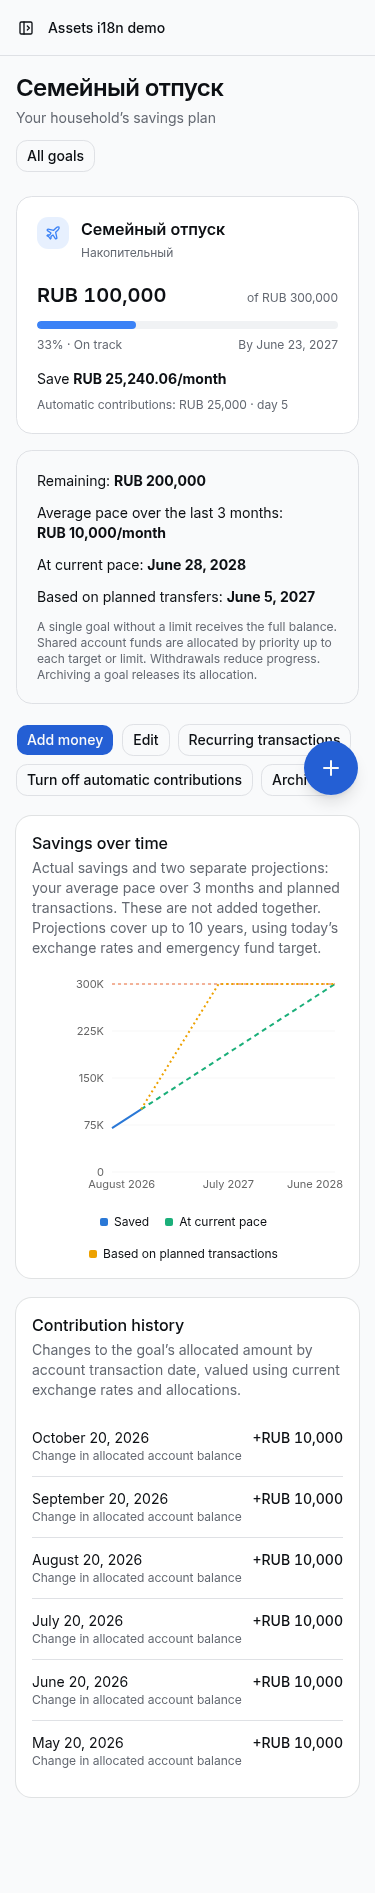
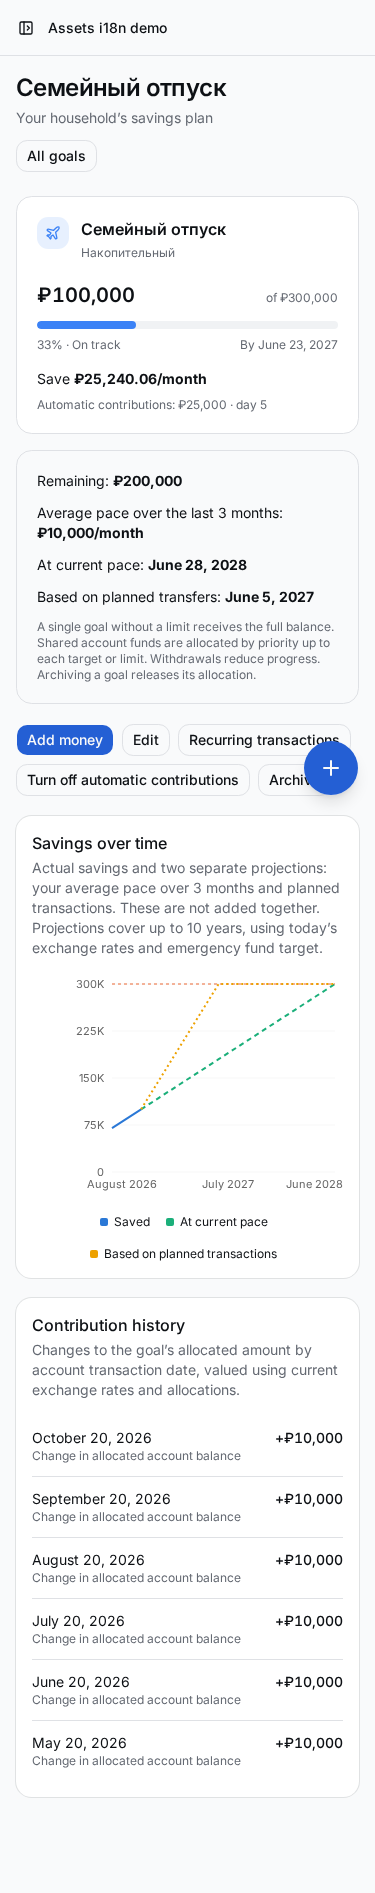
fix(i18n): use narrow currency symbols across locales

diff --git a/src/lib/money.test.ts b/src/lib/money.test.ts
@@ -1,5 +1,6 @@
 import { describe, expect, it } from "vitest"
-import { formatMoney, formatMoneyShort, minorToInput, parseMoney } from "./money"
+import { formatMoney, formatMoneyCompact, formatMoneyShort, minorToInput, parseMoney } from "./money"
+import { currencySymbol } from "./currencies"
 import { addMonths, todayIn } from "./dates"
 
 describe("parseMoney", () => {
@@ -68,5 +69,38 @@ describe("currency exponents", () => {
     expect(formatMoney(123456, "USD")).toContain("234,56")
     expect(parseMoney("1,234", "BHD")).toBe(1234)
     expect(minorToInput(1234, "BHD")).toBe("1,234")
+  })
+})
+
+describe("narrow currency symbols", () => {
+  const plain = (value: string) => value.replace(/\s/g, " ")
+
+  it.each([
+    ["RUB", 471_182_774, "4 711 827,74 ₽", "₽4,711,827.74", "₽"],
+    ["USD", 10_001, "100,01 $", "$100.01", "$"],
+    ["EUR", 5_001, "50,01 €", "€50.01", "€"],
+    ["JPY", 100, "100 ¥", "¥100", "¥"],
+    ["CNY", 10_001, "100,01 ¥", "¥100.01", "¥"],
+  ] as const)("formats %s amounts and input suffixes in both locales", (currency, minor, ru, en, symbol) => {
+    expect(plain(formatMoney(minor, currency, { locale: "ru" }))).toBe(ru)
+    expect(plain(formatMoney(minor, currency, { locale: "en" }))).toBe(en)
+    expect(currencySymbol(currency, "ru")).toBe(symbol)
+    expect(currencySymbol(currency, "en")).toBe(symbol)
+  })
+
+  it("keeps whole-amount precision and signs unchanged", () => {
+    expect(plain(formatMoney(10_000, "USD", { locale: "ru" }))).toBe("100 $")
+    expect(formatMoney(10_000, "USD", { locale: "en" })).toBe("$100")
+    expect(formatMoney(5_000, "EUR", { locale: "en" })).toBe("€50")
+    expect(formatMoney(-471_182_774, "RUB", { locale: "en" })).toBe("−₽4,711,827.74")
+    expect(formatMoney(471_182_774, "RUB", { locale: "en", sign: true })).toBe("+₽4,711,827.74")
+  })
+
+  it("preserves number-only chart and calendar abbreviations", () => {
+    expect(formatMoneyCompact(600_000_000, "RUB", "en")).toBe("6M")
+    expect(formatMoneyCompact(450_000_000, "RUB", "en")).toBe("4.5M")
+    expect(plain(formatMoneyCompact(450_000_000, "RUB", "ru"))).toBe("4,5 млн")
+    expect(formatMoneyShort(1_250_000, "USD", "en")).toBe("12.5K")
+    expect(formatMoneyShort(1_250_000, "USD", "ru")).toBe("12,5к")
   })
 })

diff --git a/e2e/assets-i18n.spec.ts b/e2e/assets-i18n.spec.ts
@@ -148,9 +148,11 @@ test("assets and import: seed demo in ru/en, both themes and widths, English act
     await page.goto("/accounts")
     await page.getByRole("button", { name: "Account", exact: true }).click()
     await page.getByLabel("Name", { exact: true }).fill("Travel card")
-    await page.getByLabel("Opening balance", { exact: true }).fill("1234.56")
+    const opening = page.getByLabel("Opening balance", { exact: true })
+    await opening.fill("1234.56")
+    await expect(opening.locator("..")).toContainText("₽")
     await page.getByRole("button", { name: "Save", exact: true }).click()
-    await expect(page.getByRole("listitem").filter({ hasText: "Travel card" })).toContainText("RUB 1,234.56")
+    await expect(page.getByRole("listitem").filter({ hasText: "Travel card" })).toContainText("₽1,234.56")
 
     await page.goto(`/goals/${goal.id}`)
     await page.getByRole("button", { name: "Add money", exact: true }).click()

diff --git a/src/lib/currencies.ts b/src/lib/currencies.ts
@@ -14,5 +14,5 @@ export function currencyExponent(currency: string): number {
 }
 
 export function currencySymbol(currency: string, locale = "ru"): string {
-  return new Intl.NumberFormat(locale, { style: "currency", currency }).formatToParts(0).find((p) => p.type === "currency")!.value
+  return new Intl.NumberFormat(locale, { style: "currency", currency, currencyDisplay: "narrowSymbol" }).formatToParts(0).find((p) => p.type === "currency")!.value
 }

diff --git a/src/lib/money.ts b/src/lib/money.ts
@@ -15,6 +15,7 @@ function formatter(currency: string, fractionDigits: number, locale: string) {
   if (!f) {
     f = new Intl.NumberFormat(locale, {
       style: "currency",
+      currencyDisplay: "narrowSymbol",
       currency,
       minimumFractionDigits: fractionDigits,
       maximumFractionDigits: fractionDigits,

diff --git a/docs/screenshots/i18n/assets-import/README.md b/docs/screenshots/i18n/assets-import/README.md
@@ -19,3 +19,5 @@
 - Сервисы получают активную локаль через контекст запроса. При фоновой материализации кредитов используется сохранённая локаль создателя; если она не задана или создатель удалён — `en`, как системный fallback приложения. Старые названия операций и категорий не переименовываются.
 - Общие формы операций и общие предупреждения курсов переводятся другими областями фазы 2. Этот PR не меняет их UI.
 - `use-intl` добавлен как прямая зависимость для чистого `use-intl/core`; версия уже присутствовала в lockfile как зависимость `next-intl`. Это позволяет запускать seed-demo и доменные сервисы с `--conditions=react-server` без загрузки клиентских React hooks.
+
+Форматирование валют использует `currencyDisplay: "narrowSymbol"`: английские суммы и суффиксы MoneyInput показывают `₽`, `$`, `€`, `¥`. Числовые сокращения графиков (`6M`, `4.5M`) сохраняются.
